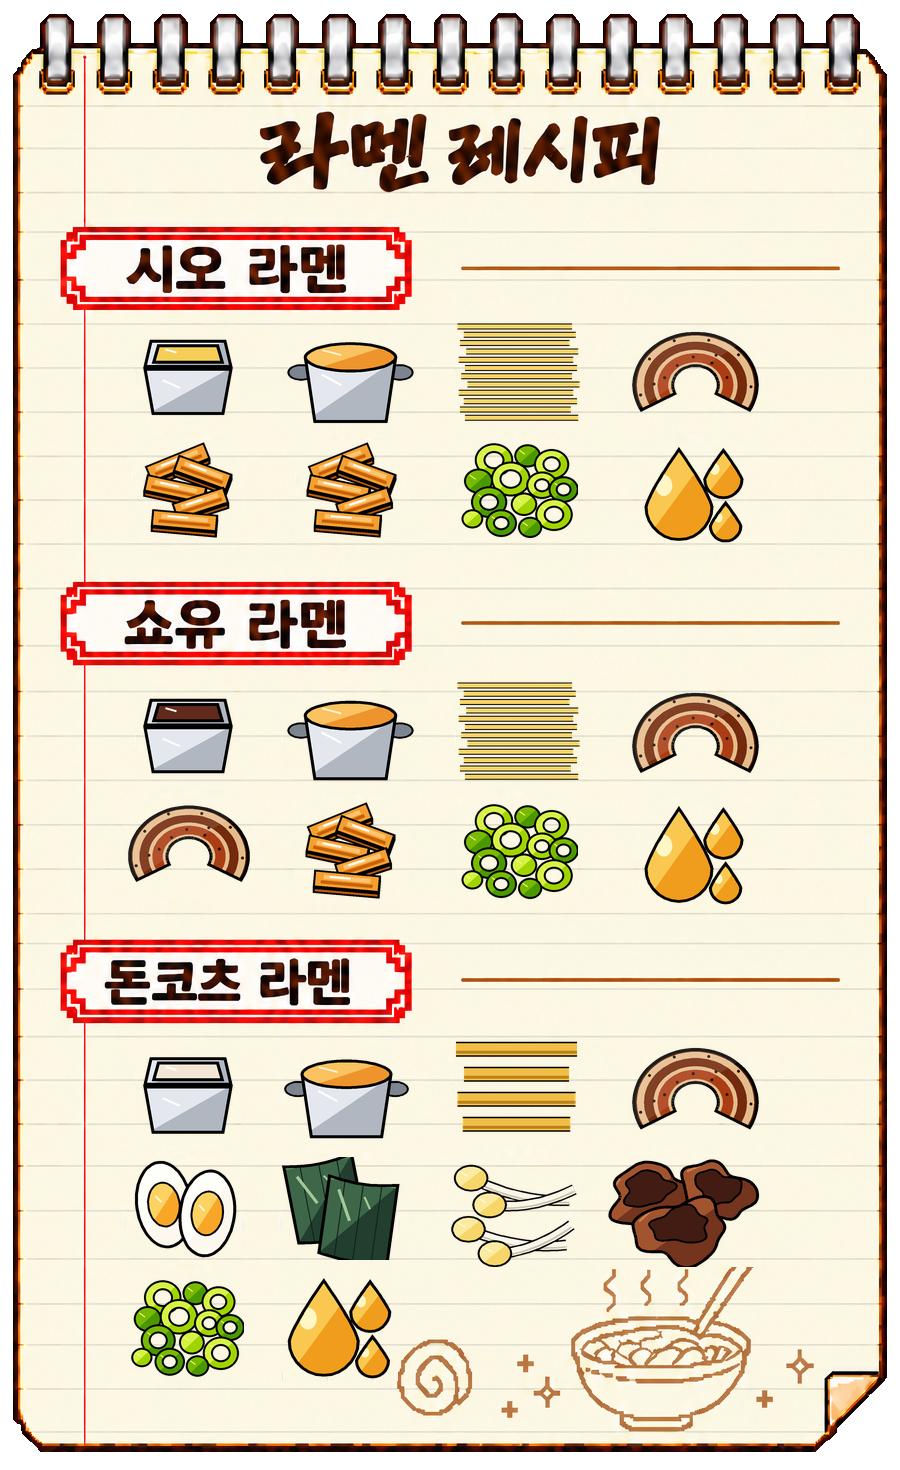
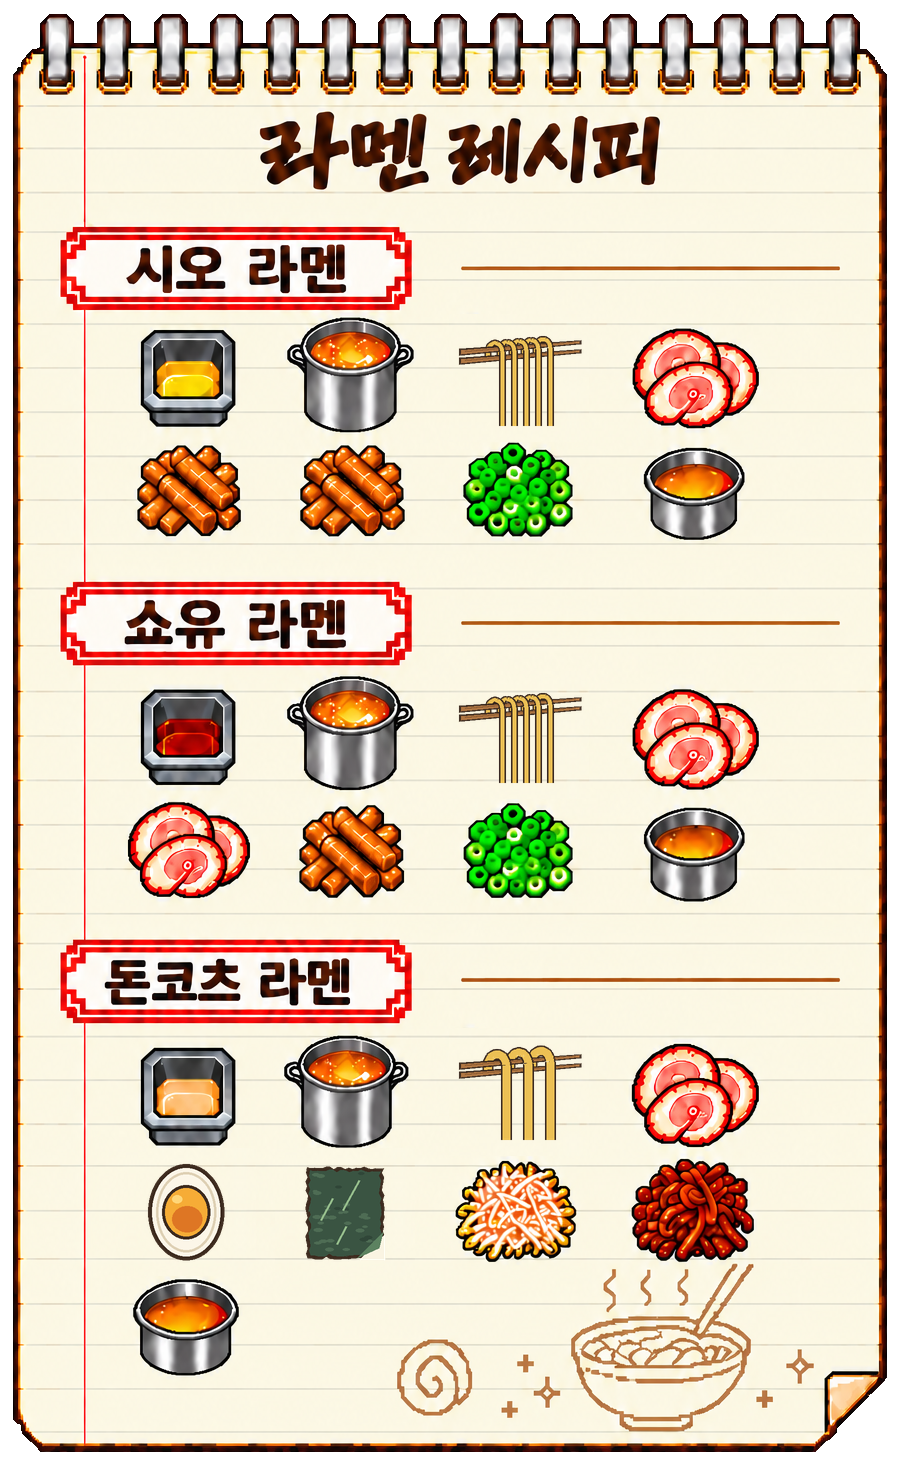
레시피북 면·계란·김을 다시 그림 — 젓가락에 걸친 면, 계란·김은 하나씩
가로줄 다발이던 면은 면으로 안 읽혔고, 계란·김이 둘씩 그려져 있어
「2개 넣어야 하나」로 헷갈렸다. Tools/make_recipe_book_icons.py 가
art_source 원본에서 다섯 칸을 지우고 새 그림을 얹는다. 자리는 그대로.

diff --git a/Tools/make_recipe_book_icons.py b/Tools/make_recipe_book_icons.py
@@ -1,0 +1,194 @@
+# -*- coding: utf-8 -*-
+"""레시피북(Assets/Art/UI/레시피북.png)의 면·계란·김 칸을 다시 그려 얹는다.
+
+원본 손그림(Tools/art_source/레시피북_원본.png, 900x1470)에서 다섯 칸을 지우고 새 그림을 얹는다.
+  * 얇은 면(시오·쇼유) / 굵은 면(돈코츠): 젓가락 두 짝에 걸쳐 늘어진 면. 끝은 칸 아래에서
+    일자로 끊는다 — 길어서 가려진 느낌. 원래 그림(가로줄 다발)은 면으로 안 읽혔다.
+  * 계란·김: 하나씩. 원래 둘씩 그려져 있어 「2개 넣어야 하나」로 헷갈렸다.
+
+항상 원본에서 다시 만드므로 몇 번 돌려도 같다. 재료 자리는 그대로라
+RecipeBookUI 의 마우스 오버 표(Cells)는 손댈 것이 없다.
+
+한 칸은 140x120(원본 3배 기준). 2배 슈퍼샘플로 그려 절반으로 줄여 원본과 같은 부드러운 외곽선을 얻는다.
+"""
+import math
+import random
+from PIL import Image, ImageDraw
+
+SRC = 'Tools/art_source/레시피북_원본.png'
+OUT = 'Assets/Art/UI/레시피북.png'
+
+SS = 2
+CW, CH = 140, 120
+INK = (60, 42, 30, 255)           # 원본 먹선과 같은 색
+NOODLE = (236, 192, 84, 255)
+WOOD = (176, 118, 66, 255)
+WOOD_D = (120, 76, 40, 255)
+EGG_W = (252, 246, 232, 255)
+EGG_WD = (222, 208, 180, 255)
+EGG_Y = (246, 172, 54, 255)
+EGG_YD = (222, 118, 36, 255)
+EGG_YL = (255, 214, 120, 255)
+NORI_G = (58, 84, 66, 255)
+NORI_GL = (92, 130, 96, 255)
+NORI_GLL = (150, 190, 140, 255)
+PAPER = (250, 244, 226, 255)
+
+
+def P(x, y):
+    return (x * SS, y * SS)
+
+
+def canvas():
+    img = Image.new('RGBA', (CW * SS, CH * SS), (0, 0, 0, 0))
+    return img, ImageDraw.Draw(img)
+
+
+def fin(img):
+    return img.resize((CW, CH), Image.LANCZOS)
+
+
+def stroke(d, pts, fill, w, o=1.5):
+    """외곽선 있는 선. 먹선을 먼저 굵게, 그 위에 색."""
+    pts = [P(*p) for p in pts]
+    d.line(pts, fill=INK, width=int((w + 2 * o) * SS), joint='curve')
+    d.line(pts, fill=fill, width=int(w * SS), joint='curve')
+
+
+def ellipse(d, box, fill, o=2):
+    x0, y0, x1, y1 = box
+    d.ellipse([P(x0 - o, y0 - o), P(x1 + o, y1 + o)], fill=INK)
+    d.ellipse([P(x0, y0), P(x1, y1)], fill=fill)
+
+
+# ---------------------------------------------------------------- 면
+def noodles(thick):
+    """젓가락 두 짝 위로 고리를 이루며 넘어와 늘어지는 면. 아래는 한 줄에서 끊는다."""
+    img, d = canvas()
+    y_left, y_right, gap = 34, 24, 9         # 젓가락: 왼쪽 굵은 끝 → 오른쪽 가는 끝, 살짝 올라감
+    cut = 108
+    w = 8 if thick else 4
+    n = 3 if thick else 5
+    r = 9 if thick else 7                    # 젓가락을 넘는 고리 반지름
+    xs = [70 + (i - (n - 1) / 2) * (22 if thick else 12) for i in range(n)]
+
+    def stick_y(x):
+        return y_left + (y_right - y_left) * (x - 10) / 122
+
+    # 1) 젓가락 뒤에서 올라와 고리 꼭대기까지 (180° → 90°)
+    for x in xs:
+        ys = stick_y(x)
+        arc = []
+        for t in range(16):
+            a = math.pi - math.pi * t / 15 * 0.5
+            arc.append((x + r * math.cos(a), ys + 3 - r * 1.3 * math.sin(a)))
+        stroke(d, [(x - r, ys + 12), (x - r, ys + 3)] + arc, NOODLE, w)
+    # 2) 젓가락
+    for k in range(2):
+        yl, yr = y_left + k * gap, y_right + k * gap
+        d.polygon([P(10, yl - 3.5), P(132, yr - 2), P(132, yr + 2), P(10, yl + 3.5)], fill=INK)
+        d.polygon([P(12, yl - 2), P(130, yr - 1), P(130, yr + 1), P(12, yl + 2)], fill=WOOD)
+        d.line([P(16, yl - 1), P(126, yr - 0.5)], fill=WOOD_D, width=SS)
+    # 3) 고리 꼭대기에서 앞으로 넘어와 칸 밖까지 늘어지는 가닥 (90° → 0°)
+    for x in xs:
+        ys = stick_y(x)
+        arc = []
+        for t in range(16):
+            a = math.pi / 2 - math.pi / 2 * t / 15
+            arc.append((x + r * math.cos(a), ys + 3 - r * 1.3 * math.sin(a)))
+        stroke(d, arc + [(x + r, 140)], NOODLE, w)
+    # 아래를 일자로 끊는다
+    clear = Image.new('RGBA', (img.width, img.height - cut * SS), (0, 0, 0, 0))
+    img.paste(clear, (0, cut * SS))
+    return fin(img)
+
+
+# ---------------------------------------------------------------- 계란
+def egg():
+    """반숙 반쪽 하나. 조리 화면 계란과 같은 구도."""
+    img, d = canvas()
+    cx, cy = 70, 60
+    ellipse(d, (cx - 34, cy - 44, cx + 34, cy + 44), EGG_W, o=4)
+    d.ellipse([P(cx - 30, cy - 40), P(cx + 30, cy + 40)], outline=EGG_WD, width=int(2.5 * SS))
+    ellipse(d, (cx - 21, cy - 24, cx + 21, cy + 24), EGG_Y, o=3)
+    d.ellipse([P(cx - 14, cy - 6), P(cx + 16, cy + 20)], fill=EGG_YD)     # 흐르는 반숙
+    d.ellipse([P(cx - 14, cy - 17), P(cx - 4, cy - 9)], fill=EGG_YL)      # 하이라이트
+    return fin(img)
+
+
+# ---------------------------------------------------------------- 김
+def nori():
+    """김 한 장 정면. 가장자리가 살짝 울퉁불퉁하고 오른쪽 아래 모서리가 말려 「얇은 한 장」이 드러난다."""
+    img, d = canvas()
+    x0, y0, x1, y1 = 32, 16, 108, 106
+    rnd = random.Random(3)
+    pts = []
+    for t in range(20):
+        pts.append((x0 + (x1 - x0) * t / 20, y0 + rnd.uniform(-1.5, 1.5)))
+    for t in range(20):
+        pts.append((x1 + rnd.uniform(-1.5, 1.5), y0 + (y1 - y0) * t / 20))
+    for t in range(20):
+        pts.append((x1 - (x1 - x0) * t / 20, y1 + rnd.uniform(-1.5, 1.5)))
+    for t in range(20):
+        pts.append((x0 + rnd.uniform(-1.5, 1.5), y1 - (y1 - y0) * t / 20))
+    d.polygon([P(*p) for p in pts], fill=INK)
+    d.polygon([P(x - (3 if x > 70 else -3), y - (3 if y > 60 else -3)) for x, y in pts], fill=NORI_G)
+    # 결 — 얼룩 + 비스듬한 윤기 획
+    rnd = random.Random(1)
+    for _ in range(34):
+        px = rnd.uniform(x0 + 4, x1 - 10)
+        py = rnd.uniform(y0 + 4, y1 - 6)
+        w = rnd.uniform(4, 9)
+        col = (78, 108, 84, 255) if rnd.random() < 0.7 else (48, 70, 56, 255)
+        d.ellipse([P(px, py), P(px + w, py + w * 0.4)], fill=col)
+    for (sx, sy, ln) in ((x0 + 14, y0 + 30, 22), (x0 + 36, y0 + 12, 30), (x0 + 30, y1 - 32, 18)):
+        d.line([P(sx, sy + ln), P(sx + ln * 0.55, sy)], fill=NORI_GLL, width=2 * SS)
+    # 오른쪽 아래 모서리 말림 — 뒷면이 종이색
+    d.polygon([P(x1 - 24, y1 + 2), P(x1 + 2, y1 + 2), P(x1 + 2, y1 - 24)], fill=PAPER)
+    d.polygon([P(x1 - 26, y1), P(x1 - 4, y1 - 10), P(x1, y1 - 26)], fill=INK)
+    d.polygon([P(x1 - 26, y1), P(x1 - 4, y1 - 10), P(x1, y1 - 26), P(x1 - 12, y1 - 14)], fill=NORI_GL)
+    return fin(img)
+
+
+# ---------------------------------------------------------------- 얹기
+def center(x, y):
+    """RecipeBookUI.Cells 의 좌표(판 300x490 기준, 가운데 원점) → 원본 900x1470 픽셀."""
+    return (150 + x) * 3, (245 - y) * 3
+
+
+# 지우는 높이. 원래 그림이 위아래로 ±63 까지 뻗어 있어 120 으로는 맨 윗줄이 한 줄 남았다.
+# 옆 줄 그림은 가운데에서 67 부터 시작하므로 128(±64)이 상한이다.
+EH = 128
+
+
+def paper_at(book, cy):
+    """같은 높이의 빈 종이(오른쪽 여백 108칸)를 떼어 오고 양옆 16칸은 거울로 채운다.
+    줄 무늬가 가로라 거울로 이어도 티가 안 난다. x 764~872 는 어느 줄에서도 비어 있다."""
+    strip = book.crop((764, cy - EH // 2, 872, cy + EH // 2))
+    out = Image.new('RGBA', (CW, EH))
+    out.paste(strip, (16, 0))
+    flip = strip.transpose(Image.FLIP_LEFT_RIGHT)
+    out.paste(flip.crop((92, 0, 108, EH)), (0, 0))
+    out.paste(flip.crop((0, 0, 16, EH)), (124, 0))
+    return out
+
+
+def main():
+    book = Image.open(SRC).convert('RGBA')
+    cells = [
+        (center(23, 119), noodles(False)),     # 시오 얇은 면
+        (center(23, 0), noodles(False)),       # 쇼유 얇은 면
+        (center(23, -119), noodles(True)),     # 돈코츠 굵은 면
+        (center(-88, -159), egg()),            # 돈코츠 계란
+        (center(-35, -159), nori()),           # 돈코츠 김
+    ]
+    for (cx, cy), art in cells:
+        tile = paper_at(book, cy)
+        tile.alpha_composite(art, (0, (EH - CH) // 2))
+        book.paste(tile, (cx - CW // 2, cy - EH // 2))
+    book.save(OUT)
+    print('wrote', OUT)
+
+
+if __name__ == '__main__':
+    main()
